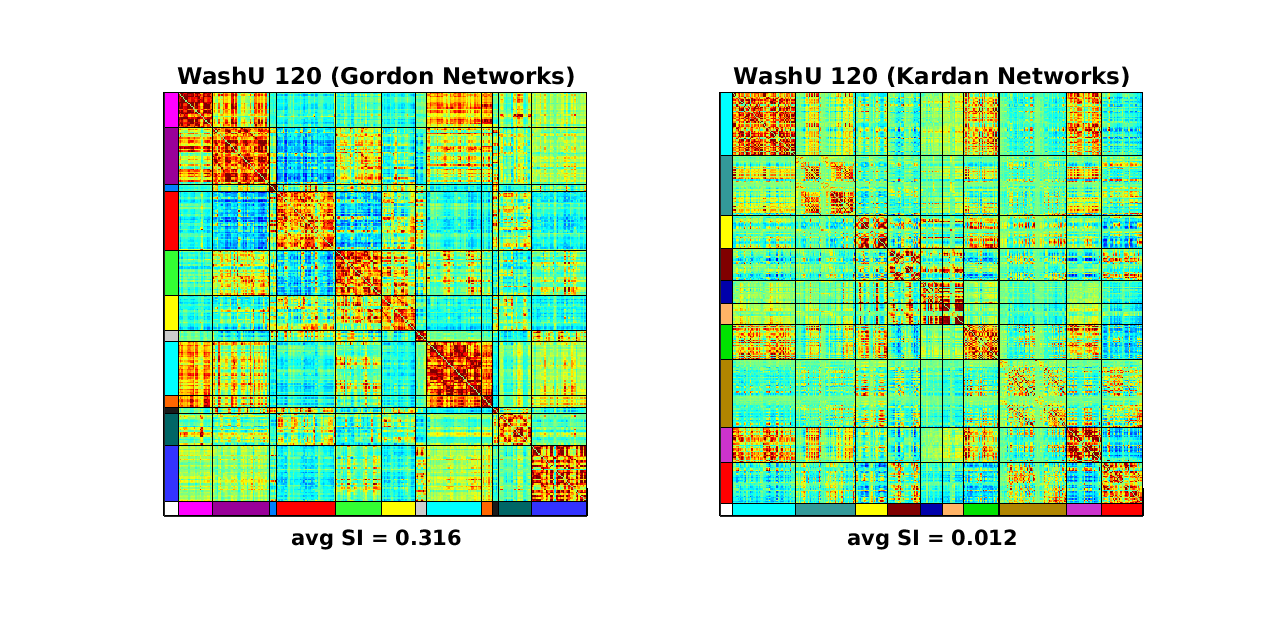
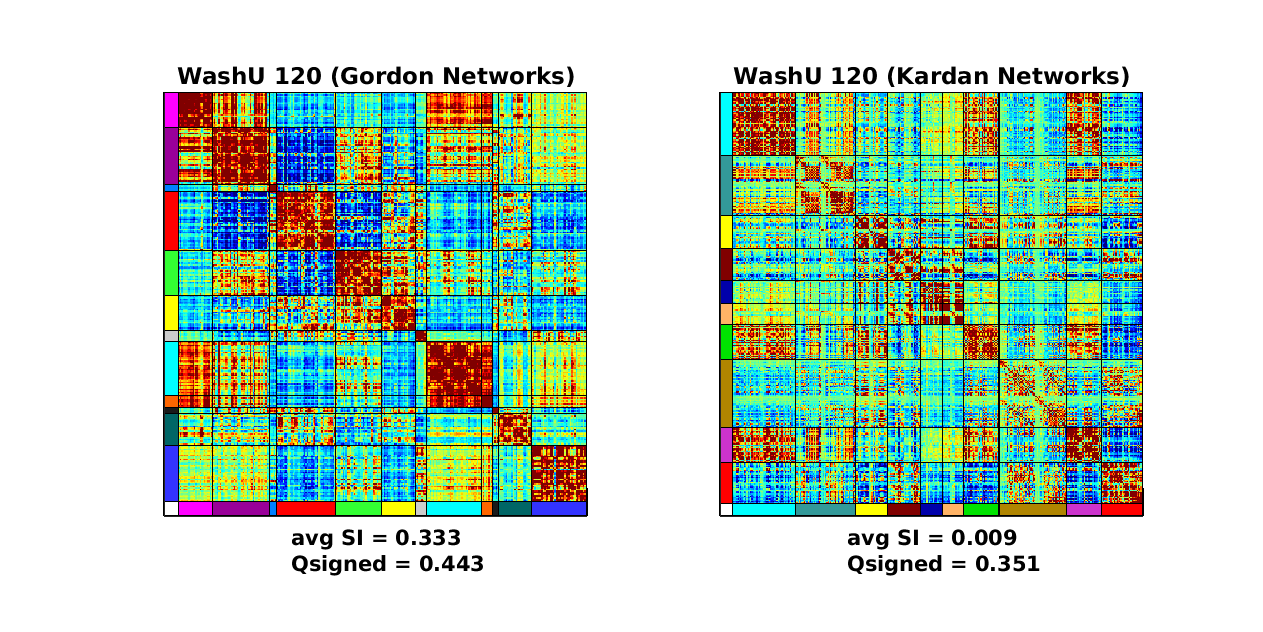
update example 1

diff --git a/NLA visualizationfunctions/Scripts/modularity_signed.m b/NLA visualizationfunctions/Scripts/modularity_signed.m
@@ -1,0 +1,39 @@
+function Q = modularity_signed(W,M, gamma)
+% Rubinov & Sporns 2011
+% adapted from community_louvain.m in BCT toolbox
+%   Inputs:
+%       W,
+%           directed/undirected weighted/binary connection matrix with
+%           positive and possibly negative weights.
+%       M,
+%           community affiliation vector
+%       gamma,
+%           resolution parameter (optional)
+%               gamma>1,        detects smaller modules
+%               0<=gamma<1,     detects larger modules
+%               gamma=1,        classic modularity (default)
+if ~exist('gamma','var')||isempty(gamma)
+    gamma=1;        % classic modularity (default)
+end
+
+W=double(W);                                % convert to double format
+
+W0 = W.*(W>0);                          %positive weights matrix
+s0 = sum(sum(W0));                      %weight of positive links
+B0 = W0-gamma*(sum(W0,2)*sum(W0,1))/s0; %positive modularity
+
+W1 =-W.*(W<0);                          %negative weights matrix
+s1 = sum(sum(W1));                      %weight of negative links
+if s1                                   %negative modularity
+    B1 = W1-gamma*(sum(W1,2)*sum(W1,1))/s1;
+else
+    B1 = 0;
+end
+
+B = B0/s0 - B1/(s0+s1);
+
+
+B = (B+B.')/2;                                          % symmetrize modularity matrix
+
+Q = sum(B(bsxfun(@eq,M,M.')));                        % compute modularity
+end
